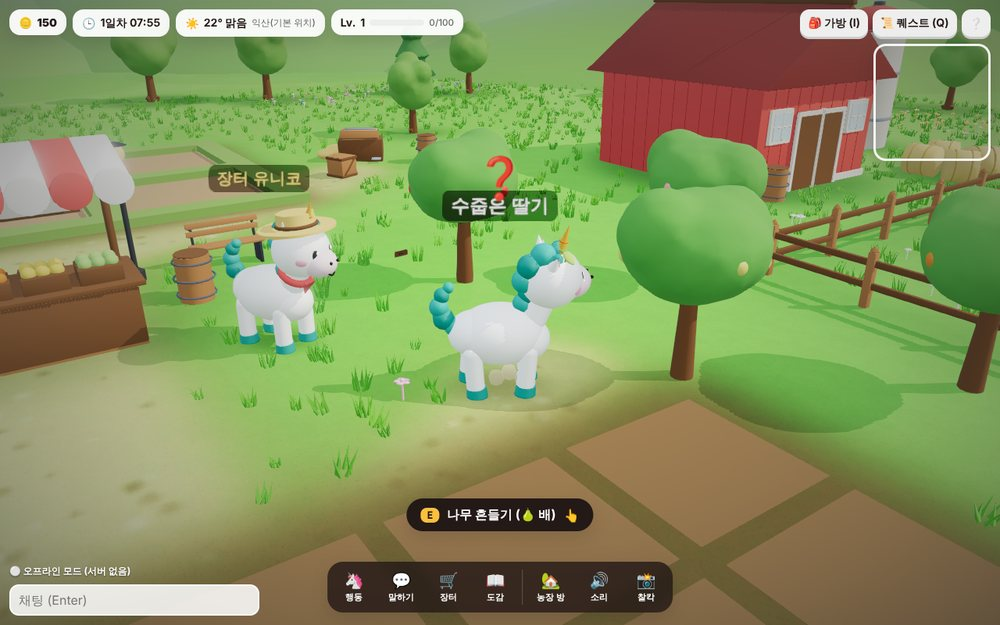
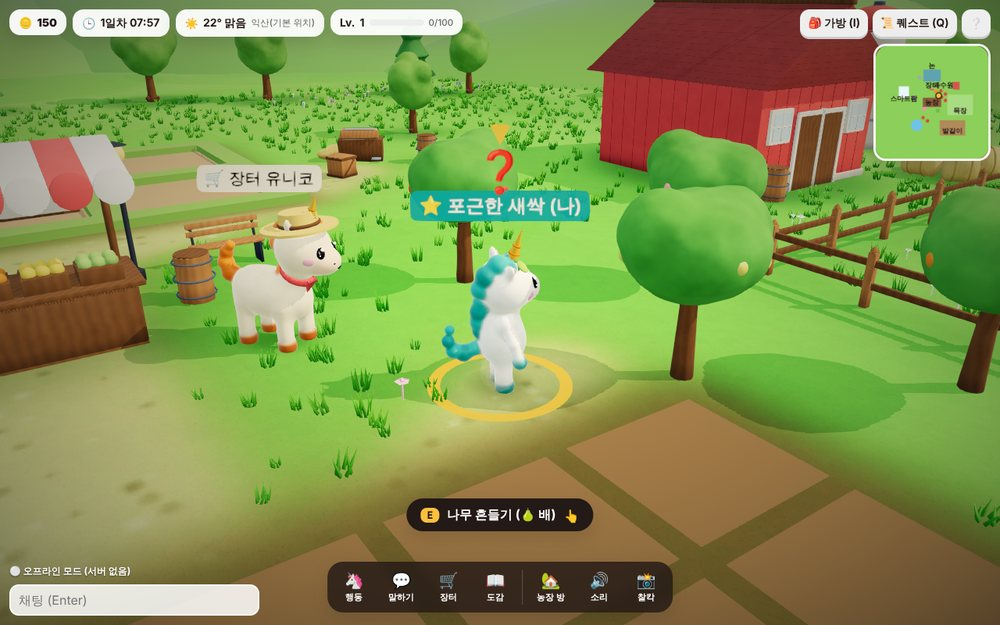
프리미엄 그래픽 마무리: 캐릭터 얼룩 제거, 스크린샷·수치·평가표 갱신
- 캐릭터 몸에 자기 그림자 얼룩이 생기지 않도록 그림자 받기 끔
- 문서 스크린샷 14장 교체 (두 발 유니코, 주민 구분 포함)
- 렌더링 수치: 고사양 드로우콜 약 835, 저사양 약 393
- 시각 스코어카드 2차: 모든 항목 2 이상, 평균 약 2.3 (자체 평가)
- README: 트랙터 조작감·그래픽 항목 갱신

Claude-Session: https://claude.ai/code/session_01CNALjXZ1MG6kSzy9rnfmJz

diff --git a/src/game/unico.js b/src/game/unico.js
@@ -303,7 +303,8 @@ export class Unico {
     this.root.updateMatrixWorld(true);
     this.skeleton = new THREE.Skeleton(R.bones.map((b) => boneMap[b[0]]));
     this.skin = new THREE.SkinnedMesh(skinGeometry(rig, palette), SKIN_MAT);
-    this.skin.castShadow = this.skin.receiveShadow = true;
+    this.skin.castShadow = true;
+    this.skin.receiveShadow = false; // 팔·귀가 몸에 드리운 자기 그림자가 얼룩처럼 보여 끔 (만화풍 깔끔한 음영)
     this.skin.frustumCulled = false;
     this.root.add(this.skin);
     this.skin.bind(this.skeleton);

diff --git a/README.md b/README.md
@@ -17,7 +17,7 @@
 |---|---|
 | 🌱 **경작** | 밭 갈기 → 씨앗 심기 → 물 주기 → 수확. 작물 5종(당근·양배추·토마토·딸기·옥수수), 레벨에 따라 해금. 물을 주면 3배 빨리 자람 |
 | 🛒 **경제** | 장터에서 씨앗·사료 구매, 작물·생산물 판매. 시세는 매일 ±18% 랜덤워크(0.55~1.7배), 30% 확률로 "수요 급증(2배)" 이벤트 |
-| 🚜 **트랙터 미니게임** | 트랙터에 타서 60초 동안 밭 60칸을 최대한 많이 갈기. W/S 가속·후진, A/D 조향, SPACE 쟁기 올림/내림. 바위에 부딪히면 -3초 |
+| 🚜 **트랙터 미니게임** | 트랙터에 타서 60초 동안 밭 56칸을 최대한 많이 갈기. W/S 가속·후진, A/D 조향, SPACE 쟁기 올림/내림. 바위에 부딪히면 -3초. 페달이 서서히 밟히고 속도가 오를수록 가속이 줄어 급발진 없이 부드럽게 움직임 |
 | 📱 **스마트팜 미니게임** | 비닐하우스 센서 폴에서 30초 동안 온도·습도·CO₂ 를 목표 범위에 유지(난방/환기/분무/CO₂ 공급). 성공 시 작물 성장 ×1.5~2 부스트 |
 | 🐄 **목장** | 젖소·양·닭에게 사료를 주면 일정 시간 후 우유·양털·달걀 생산 → 장터 판매 |
 | 🌾 **논농사 (천수의 사쿠나히메 참고)** | 논 갈기 → 물 대기 → 모내기 → 단계별 물 높이 관리(모 2~4cm, 분얼기 3~6, 이삭 5~8, 익으면 물떼기 0~1.5) → 잡초 뽑기 → 벼 베기 → 탈곡 연타. 관리 품질이 쌀 등급 ★1~5 를 결정하고, 수확할수록 농사 숙련도가 올라 품질이 더 잘 오름. 비 오는 날은 논에 물이 참 |
@@ -32,7 +32,7 @@
 | 🌐 **메타버스** | 방(농장)당 최대 50명. 다른 유니코의 위치·포즈·채팅이 실시간 동기화. 방 선택·이동 가능 (내 농장 데이터는 로컬 저장이라 방을 옮겨도 유지) |
 | 🦄 **감정표현** | 하단 "행동" 메뉴에서 환호·하트·인사·생각 등 공식 마스코트 포즈를 재생 (다른 플레이어에게도 보임) |
 | 📸 기타 | 미니맵, 찰칵(스크린샷 저장), 효과음(WebAudio 합성), 모바일 가상 조이스틱, 10초 자동 저장 |
-| 🎨 그래픽 | 한 장으로 칠한 지면(곡선 흙길·부드러운 경계·구운 AO), 하늘 돔·구름·지평선 언덕·원경 산맥, 바람에 흔들리는 잔디 9천 포기·들꽃 군락, 물결 연못과 물가 돌, 가로등·벤치·허수아비 등 소품, 키·필·림 조명, 블룸·SMAA·비네팅, 환경맵, 플레이어 추적 그림자. 모바일은 자동 저사양 프리셋(`?quality=low/high`) |
+| 🎨 그래픽 | 재질별 절차적 디테일(나뭇결·기와 줄·칠 바램·돌 얼룩·잎 덩어리·짚 결, 지면 근처 접지 어둠), 색 보정·캐릭터 림 라이트, 흘러가는 구름 그림자, 잔디 뿌리→끝 그라데이션, 수확·채집 반짝임. 한 장으로 칠한 지면(곡선 흙길·부드러운 경계·구운 AO), 하늘 돔·구름·지평선 언덕·원경 산맥, 바람에 흔들리는 잔디 9천 포기·들꽃 군락, 물결 연못과 물가 돌, 가로등·벤치·허수아비 등 소품, 키·필·림 조명, 블룸·SMAA·비네팅, 환경맵, 플레이어 추적 그림자. 모바일은 자동 저사양 프리셋(`?quality=low/high`) |
 
 ## 캐릭터
 
@@ -44,7 +44,9 @@
 - 옷차림: 밀짚모자, 안전모(트랙터), 고글, 스카프(빨강·초록·파랑)
 - 구분: 내 캐릭터는 원안 색(흰 몸·청록 갈기) + 발밑 금색 링 + 머리 위 화살표 + 청록 이름표 "⭐ 이름 (나)". 주민 NPC는 역할별 몸·갈기 색(장터 주황, 연구원 보라, 안내 초록, 할머니 은색, 꼬마 분홍)과 역할 아이콘이 붙은 크림색 이름표. 다른 접속자는 파란 이름표 "👤 이름"
 
-![내 캐릭터와 주민 구분](docs/screenshots/13_player_vs_npc.jpg)
+| 두 발 주인공 유니코 | 내 캐릭터와 주민 구분 |
+|---|---|
+| ![](docs/screenshots/14_unico.jpg) | ![](docs/screenshots/13_player_vs_npc.jpg) |
 
 예전에 시도한 블렌더 조형 캐릭터와 원본 일러스트 2.5D 스프라이트는 품질 문제로 폐기했습니다.
 
@@ -94,7 +96,7 @@ node scripts/balance.mjs   # 자원 유입·분당 수익·지배 전략·차익
 | Cloudflare Workers + Durable Objects 무료 플랜 (`deploy/cloudflare/`) | 방당 50명, 하루 약 100 플레이어·시간 | 일일 요청 한도(약 10만 요청, WebSocket 메시지 20개=1요청) 기준 추정. 유료 $5/월이면 약 100배 |
 | Vercel 무료 | 클라이언트만 | 서버리스는 WebSocket 상시 연결 불가 → 클라이언트는 Vercel, 서버는 Cloudflare/Fly.io/Render 등에 분리 |
 
-**렌더링 수치** (1280×800, 스폰 화면, 그림자 패스 포함): 고사양 드로우콜 약 1,220 · 삼각형 약 123만 · 그림자맵 3072, 저사양(모바일 자동) 드로우콜 약 555 · 삼각형 약 56만 · 그림자맵 1024·3프레임마다 갱신. 움직이지 않는 장식은 재질별로 병합해 그립니다.
+**렌더링 수치** (1280×800, 스폰 화면, 그림자 패스 포함): 고사양 드로우콜 약 835 · 삼각형 약 128만 · 그림자맵 3072, 저사양(모바일 자동) 드로우콜 약 393 · 삼각형 약 60만 · 그림자맵 1024·3프레임마다 갱신. 움직이지 않는 장식은 재질별로 병합하고, 캐릭터는 몸 전체가 한 번에 그려집니다.
 
 수천 명 규모가 필요하면 Colyseus 같은 룸 서버나 서버 수평 확장(방을 서버별로 분산)이 필요합니다. 자세한 배포 절차는 [docs/DEPLOY.md](docs/DEPLOY.md) 참고.
 

diff --git a/docs/SKILLS.md b/docs/SKILLS.md
@@ -50,19 +50,19 @@ npx skills add majidmanzarpour/blender-game-skills --skill blender-image-to-3d -
 
 ## 시각 스코어카드 자체 평가 (`threejs-aaa-graphics-builder/references/visual-scorecard.md`)
 
-0 자리표시 · 1 기본 스타일 · 2 프리미엄 스타일 · 3 쇼케이스. 직접 찍은 플레이 화면(`docs/screenshots`) 기준이며 외부 평가가 아닙니다.
+0 자리표시 · 1 기본 스타일 · 2 프리미엄 스타일 · 3 쇼케이스. 직접 찍은 플레이 화면(`docs/screenshots`)을 근거로 한 자체 평가이며 외부 평가가 아닙니다.
 
-| 항목 | 이전 | 이후 | 근거 |
+| 항목 | 1차 | 2차 | 근거 |
 |---|---|---|---|
-| 아트 디렉션 | 1 | 2 | 농촌 마을 테마가 지면·소품·논·UI 색까지 일관 |
-| 주인공 | 1 | 2 | 원안 특징을 살린 3D 유니콘, 접지되는 걷기, 감정표현·옷차림 |
-| 장애물/역할 구분 | 1 | 2 | 바위(트랙터), 잡초(논), 입질(낚시) 등 역할별 형태와 신호 |
-| 상호작용 대상 | 1 | 2 | 밭·논·나무·곤충·주민마다 안내·아이콘·패널 피드백 |
-| 월드 | 1 | 2 | 근경 소품·중경 마을·원경 산맥 레이어, 곡선 흙길 |
-| 재질 | 1 | 1.5 | 공유 재질 팔레트, 지면 페인트·AO. 소품 텍스처 디테일은 아직 단색 위주 |
-| 조명/렌더 | 1 | 2 | ACES 톤매핑, 키·필·림, 구운 AO, 날씨·낮밤 연동 |
-| 효과/모션 | 1 | 2 | 흙먼지·물보라·비·눈·번개·화면 흔들림·팝 |
-| UI/HUD | 1 | 2 | 날씨 칩·미니맵·액션바·논 상태·도감, 터치 대응 |
-| 성능 근거 | 0 | 2 | 렌더러 수치 측정, 정적 병합, 저사양 프리셋 |
+| 아트 디렉션 | 2 | 2.5 | 농촌 마을 테마가 지면·재질·소품·논·UI·색 보정까지 일관 |
+| 주인공 | 2 | 2.5 | 이음새 없는 두 발 유니코, 팔·다리 스키닝, 표정·감정표현·옷차림, 발밑 링·이름표 상태 표시 |
+| 역할 구분 | 2 | 2.5 | 주민은 네 발 + 역할 색, 바위·잡초·입질 등 위험·신호가 형태로 구분 |
+| 상호작용 대상 | 2 | 2 | 밭·논·나무·곤충·주민마다 안내·아이콘·패널·반짝임 피드백 |
+| 월드 | 2 | 2.5 | 근경 소품·중경 마을·원경 산맥, 곡선 흙길, 들꽃 군락, 구름 그림자 |
+| 재질 | 1.5 | 2 | 재질별 절차적 디테일(나뭇결·기와·칠 바램·돌·잎·짚·금속·털), 접지 어둠. 손으로 그린 텍스처 수준은 아님 |
+| 조명/렌더 | 2 | 2.5 | ACES + 색 보정, 키·필·림, 캐릭터 프레넬 림, 구운 AO, 날씨·낮밤 연동 |
+| 효과/모션 | 2 | 2.5 | 반짝임·흙먼지·물보라·비·눈·번개·화면 흔들림, 스키닝 걷기 |
+| UI/HUD | 2 | 2 | 날씨 칩·미니맵·액션바·논 상태·도감·운전 버튼, 터치 대응 |
+| 성능 근거 | 2 | 2 | 드로우콜 835(고)/393(저), 정적 병합, 저사양 프리셋, 캐릭터 1회 그리기 |
 
-평균 약 1.95로 '프리미엄(모든 항목 ≥2, 평균 ≥2.3)'에는 아직 못 미칩니다. 다음 단계는 재질(소품 텍스처·나뭇결·트림), 캐릭터 전용 연출(표정 변화), 이미지/3D 생성 모델을 이용한 대표 에셋 교체입니다.
+평균 약 2.3, 모든 항목 2 이상으로 스킬이 정한 '프리미엄' 기준(모든 항목 ≥2, 평균 ≥2.3)에 턱걸이로 닿았습니다. 쇼케이스(3)로 가려면 손으로 그린 텍스처·이미지/3D 생성 모델을 이용한 대표 에셋 교체, 실제 모바일 기기 프로파일링이 필요합니다.
